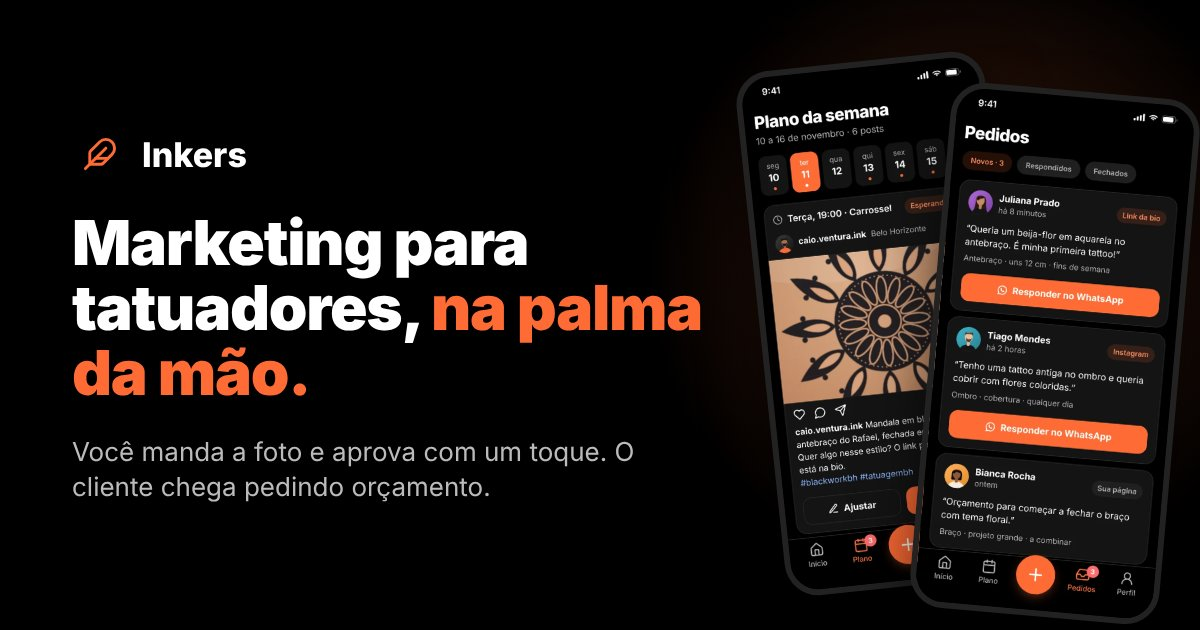
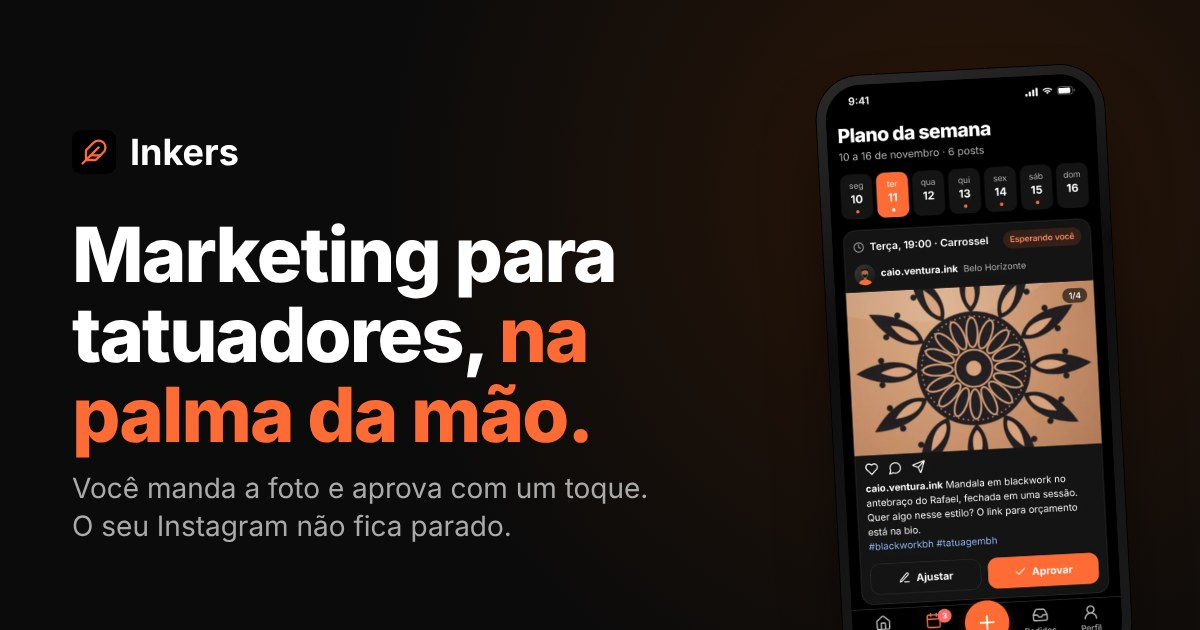
Index: só Instagram (sem página profissional nem pedidos de orçamento)
Remove a vitrine de telas e as capturas de pedidos, página e resumo, ajusta
textos e metadados e gera nova imagem de compartilhamento.

Claude-Session: https://claude.ai/code/session_01LUC3AGTq6doXFHZwf7XbWX

Changed region(s): [[0.0617, 0.0, 1.0, 1.0], [0.0617, 0.2111, 0.2158, 0.2714], [0.925, 0.0, 1.0, 0.1206]]

diff --git a/index.html b/index.html
@@ -12,23 +12,23 @@
     <link rel="icon" type="image/png" sizes="32x32" href="/assets/pena-32.png">
     <link rel="apple-touch-icon" href="/assets/pena-180.png">
     <meta name="description"
-        content="O Inkers cuida da divulgação do seu trabalho de tatuagem: você manda a foto, aprova com um toque e os clientes chegam pedindo orçamento. Uma agência de marketing pessoal no seu celular.">
+        content="O Inkers cuida da divulgação do seu trabalho de tatuagem: você manda a foto, aprova com um toque e o seu Instagram não fica parado. Uma agência de marketing pessoal no seu celular.">
 
     <meta property="og:title" content="Inkers | Marketing e divulgação para tatuadores, no seu celular">
     <meta property="og:description"
-        content="Você tatua. O Inkers cuida para que o seu trabalho seja visto, toda semana, e para que o cliente chegue até você.">
+        content="Você tatua. O Inkers cuida para que o seu trabalho seja visto, toda semana, no seu Instagram.">
     <meta property="og:type" content="website">
     <meta property="og:url" content="https://inkers.com.br/">
     <meta property="og:image" content="https://inkers.com.br/assets/og-inkers.jpg">
     <meta property="og:image:width" content="1200">
     <meta property="og:image:height" content="630">
-    <meta property="og:image:alt" content="Inkers: marketing para tatuadores, na palma da mão. Telas do app com o plano da semana e os pedidos de orçamento.">
+    <meta property="og:image:alt" content="Inkers: marketing para tatuadores, na palma da mão. Tela do app com o plano da semana pronto para aprovar.">
     <meta property="og:site_name" content="Inkers">
     <meta property="og:locale" content="pt_BR">
     <meta name="twitter:card" content="summary_large_image">
     <meta name="twitter:title" content="Inkers | Marketing e divulgação para tatuadores, no seu celular">
     <meta name="twitter:description"
-        content="Você tatua. O Inkers cuida para que o seu trabalho seja visto, toda semana, e para que o cliente chegue até você.">
+        content="Você tatua. O Inkers cuida para que o seu trabalho seja visto, toda semana, no seu Instagram.">
     <meta name="twitter:image" content="https://inkers.com.br/assets/og-inkers.jpg">
 
     <link rel="canonical" href="https://inkers.com.br/">
@@ -76,7 +76,7 @@
           "name": "Inkers",
           "applicationCategory": "BusinessApplication",
           "operatingSystem": "iOS, Android, Web",
-          "description": "Agência de marketing pessoal para tatuadores: divulgação do trabalho nas redes, página profissional e pedidos de orçamento, tudo aprovado pelo próprio tatuador.",
+          "description": "Agência de marketing pessoal para tatuadores: divulgação do trabalho no Instagram, com textos e horários preparados e tudo aprovado pelo próprio tatuador.",
           "url": "https://app.inkers.com.br",
           "author": { "@id": "https://inkers.com.br/#organization" }
         },
@@ -174,7 +174,6 @@
             <nav class="menu" aria-label="Seções da página">
                 <a href="#dores">O problema</a>
                 <a href="#como-funciona">Como funciona</a>
-                <a href="#por-dentro">Por dentro</a>
                 <a href="#duvidas">Dúvidas</a>
             </nav>
             <button type="button" class="btn btn-pri btn-sm" data-eu-quero="topo">Eu quero</button>
@@ -200,34 +199,15 @@
                         <li><svg viewBox="0 0 24 24" aria-hidden="true"><path d="M20 6 9 17l-5-5"/></svg>Nada é publicado sem você aprovar</li>
                     </ul>
                 </div>
-                <div class="hero-visual" data-baralho>
-                    <div class="baralho" aria-hidden="true">
-                        <div class="celular carta" data-aviso="Novo pedido de orçamento|Juliana · veio do link da bio">
-                            <img src="assets/images/app/inicio.webp" alt="" width="660" height="1428" fetchpriority="high" draggable="false">
-                        </div>
-                        <div class="celular carta" data-aviso="Página no ar|Lia recebe pedidos a qualquer hora">
-                            <img src="assets/images/app/pagina.webp" alt="" width="660" height="1428" decoding="async" draggable="false">
-                        </div>
-                        <div class="celular carta" data-aviso="Post pronto para aprovar|Terça, 19:00 · é só tocar em aprovar">
-                            <img src="assets/images/app/aprovar.webp" alt="" width="660" height="1428" decoding="async" draggable="false">
-                        </div>
-                        <div class="celular carta" data-aviso="3 pedidos novos|Cada um com o que o cliente quer">
-                            <img src="assets/images/app/pedidos.webp" alt="" width="660" height="1428" decoding="async" draggable="false">
-                        </div>
-                        <div class="celular carta" data-aviso="Resumo da semana|6 pedidos, 2 a mais que a anterior">
-                            <img src="assets/images/app/semana.webp" alt="" width="660" height="1428" decoding="async" draggable="false">
+                <div class="hero-visual">
+                    <div class="baralho" aria-hidden="true" style="cursor: default;">
+                        <div class="celular carta frente">
+                            <img src="assets/images/app/aprovar.webp" alt="" width="660" height="1428" fetchpriority="high" draggable="false">
                         </div>
                     </div>
                     <div class="aviso-flutuante" aria-hidden="true">
                         <span class="aviso-icone"><svg viewBox="0 0 24 24"><path d="M10.268 21a2 2 0 0 0 3.464 0"/><path d="M3.262 15.326A1 1 0 0 0 4 17h16a1 1 0 0 0 .74-1.673C19.41 13.956 18 12.499 18 8A6 6 0 0 0 6 8c0 4.499-1.411 5.956-2.738 7.326"/></svg></span>
-                        <span class="aviso-texto"><strong data-aviso-titulo>Novo pedido de orçamento</strong><small data-aviso-sub>Juliana · veio do link da bio</small></span>
-                    </div>
-                    <div class="baralho-guia">
-                        <button type="button" class="baralho-seta" data-baralho-ant aria-label="Tela anterior do app">
-                            <svg viewBox="0 0 24 24" aria-hidden="true"><path d="m15 18-6-6 6-6"/></svg></button>
-                        <span class="baralho-dica"><span class="pontos" data-baralho-pontos aria-hidden="true"></span><span>Deslize para ver mais</span></span>
-                        <button type="button" class="baralho-seta" data-baralho-prox aria-label="Próxima tela do app">
-                            <svg viewBox="0 0 24 24" aria-hidden="true"><path d="m9 18 6-6-6-6"/></svg></button>
+                        <span class="aviso-texto"><strong>Post pronto para aprovar</strong><small>Terça, 19:00 · é só tocar em aprovar</small></span>
                     </div>
                 </div>
             </div>
@@ -266,9 +246,9 @@
                     </article>
                     <article class="dor revelar">
                         <span class="dor-n">05</span>
-                        <h3>Orçamento bom esfria no meio do Direct.</h3>
-                        <p>O pedido chega, se mistura com quarenta conversas e, quando você vê, o cliente já fechou com
-                            outro.</p>
+                        <h3>Trabalho bom some no meio do feed.</h3>
+                        <p>Sem constância, foto boa e horário certo, o post mal aparece e o trabalho que levou horas passa
+                            batido.</p>
                     </article>
                     <article class="dor revelar">
                         <span class="dor-n">06</span>
@@ -349,67 +329,13 @@
                     </li>
                     <li class="passo revelar">
                         <span class="passo-n">4</span>
-                        <h3>O cliente chega e você fica sabendo.</h3>
-                        <p>Quem se interessa pede orçamento direto pela sua página, e o aviso chega no seu celular dizendo
-                            de onde aquela pessoa veio.</p>
+                        <h3>Você vê o que deu resultado.</h3>
+                        <p>Toda semana, um resumo simples com o alcance e as interações dos seus posts, para saber o que
+                            funciona no seu perfil.</p>
                     </li>
                 </ol>
                 <div class="centro revelar">
                     <button type="button" class="btn btn-pri btn-lg" data-eu-quero="como-funciona">Eu quero</button>
-                </div>
-            </div>
-        </section>
-
-        <!-- POR DENTRO -->
-        <section id="por-dentro" class="secao secao-escura">
-            <div class="wrap">
-                <header class="secao-topo revelar">
-                    <p class="rotulo">Por dentro do app</p>
-                    <h2>Simples como deveria ser.</h2>
-                    <p class="secao-sub">Telas de exemplo com tatuadores fictícios (Marina, Caio e Lia), para você ver
-                        como fica no dia a dia.</p>
-                </header>
-            </div>
-            <div class="vitrine" data-vitrine>
-                <ul class="vitrine-trilho" data-trilho>
-                    <li class="vitrine-item">
-                        <div class="celular"><img src="assets/images/app/inicio.webp" width="660" height="1428" loading="lazy"
-                                alt="Tela inicial do app da tatuadora fictícia Marina: 3 pedidos novos, 4 posts para aprovar e o relatório da semana pronto."></div>
-                        <h3>Tudo o que precisa de você, numa tela só</h3>
-                        <p>Marina abre o app de manhã e já sabe o que aprovar, quem responder e quantos pedidos entraram.</p>
-                    </li>
-                    <li class="vitrine-item">
-                        <div class="celular"><img src="assets/images/app/aprovar.webp" width="660" height="1428" loading="lazy"
-                                alt="Plano da semana do tatuador fictício Caio, com um post de mandala em blackwork pronto, com texto e horário, esperando aprovação."></div>
-                        <h3>Sua semana pronta para aprovar</h3>
-                        <p>O post do Caio chega com texto e horário definidos. Ele confere, aprova e volta para a maca.</p>
-                    </li>
-                    <li class="vitrine-item">
-                        <div class="celular"><img src="assets/images/app/pedidos.webp" width="660" height="1428" loading="lazy"
-                                alt="Lista de pedidos de orçamento da tatuadora fictícia Lia, cada um com o que o cliente quer e de onde ele veio."></div>
-                        <h3>Pedidos organizados, não perdidos</h3>
-                        <p>Cada pedido da Lia chega com o que o cliente quer, o tamanho, o local do corpo e de onde ele veio.</p>
-                    </li>
-                    <li class="vitrine-item">
-                        <div class="celular"><img src="assets/images/app/pagina.webp" width="660" height="1428" loading="lazy"
-                                alt="Página profissional da tatuadora fictícia Lia Okada, de Florianópolis, com portfólio de aquarela e botão de pedir orçamento."></div>
-                        <h3>Uma vitrine que trabalha por você</h3>
-                        <p>A página da Lia mostra o portfólio e recebe pedidos de orçamento a qualquer hora, até quando ela
-                            está dormindo.</p>
-                    </li>
-                    <li class="vitrine-item">
-                        <div class="celular"><img src="assets/images/app/semana.webp" width="660" height="1428" loading="lazy"
-                                alt="Resumo semanal do tatuador fictício Caio: 6 pedidos de orçamento, o post que mais trouxe gente e uma dica para a próxima semana."></div>
-                        <h3>Saiba o que traz cliente</h3>
-                        <p>Toda semana, um resumo simples do que deu resultado e do que vale fazer na semana seguinte.</p>
-                    </li>
-                </ul>
-                <div class="wrap vitrine-controles">
-                    <button type="button" class="seta" data-anterior aria-label="Tela anterior">
-                        <svg viewBox="0 0 24 24" aria-hidden="true"><path d="m15 18-6-6 6-6"/></svg></button>
-                    <div class="pontos" data-pontos aria-hidden="true"></div>
-                    <button type="button" class="seta" data-proximo aria-label="Próxima tela">
-                        <svg viewBox="0 0 24 24" aria-hidden="true"><path d="m9 18 6-6-6-6"/></svg></button>
                 </div>
             </div>
         </section>
